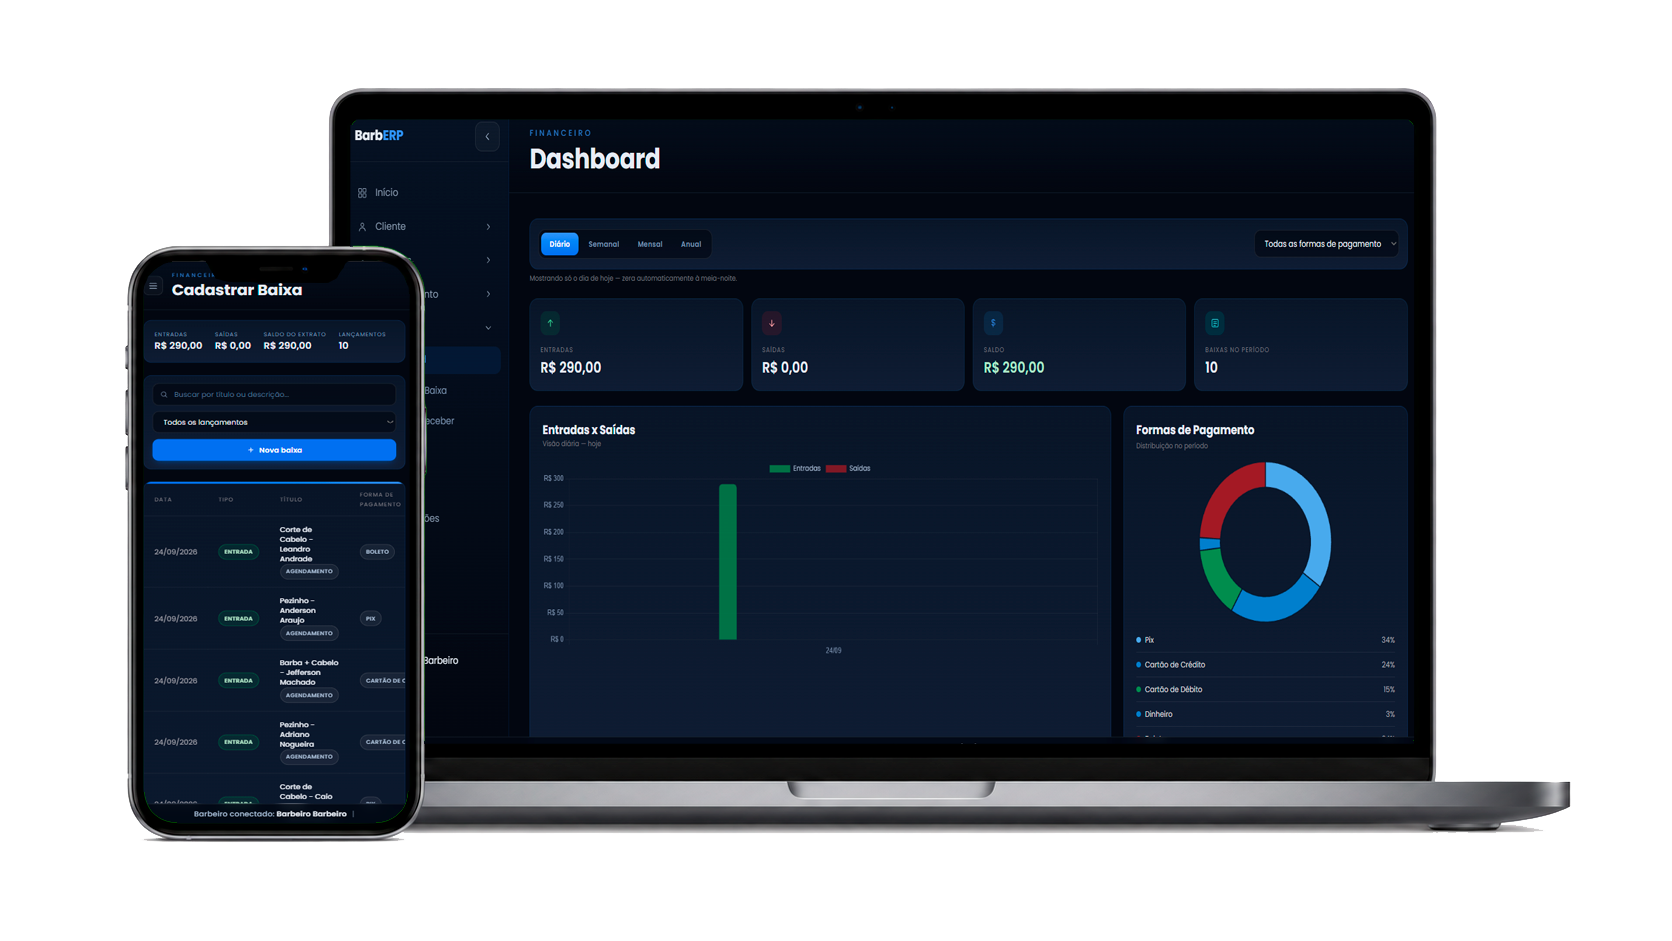
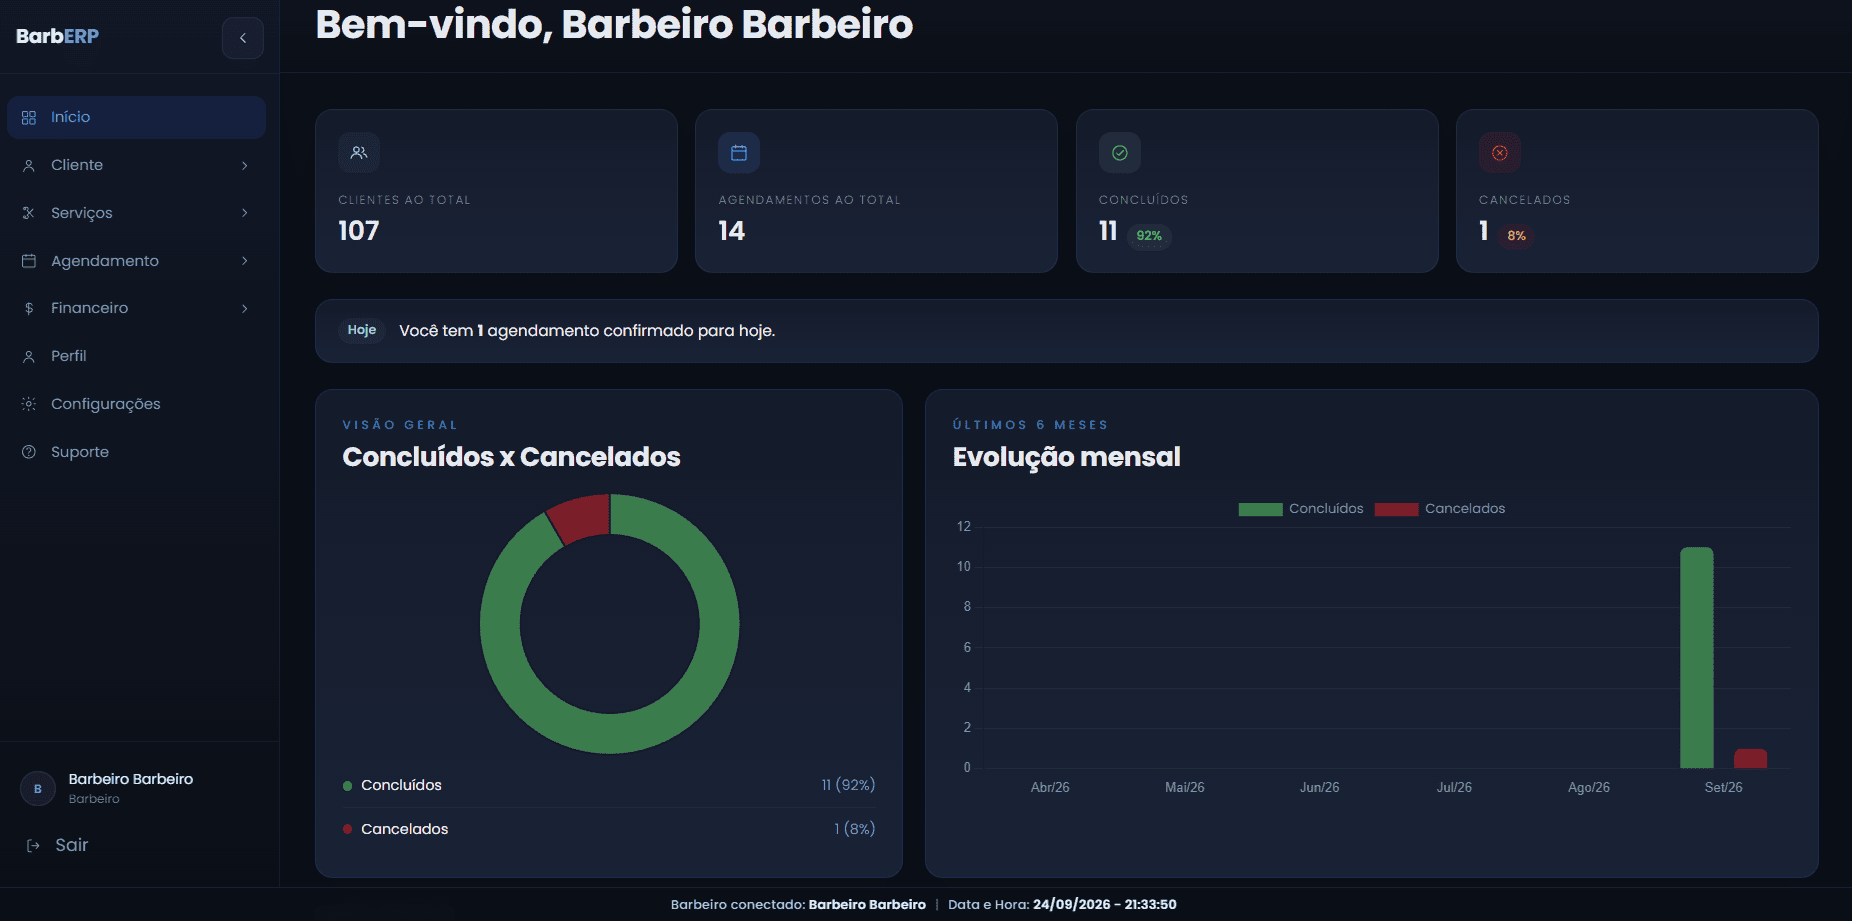
correcao de rotas

diff --git a/README.md b/README.md
@@ -29,12 +29,36 @@ Este projeto usa um banco **separado** do banco principal do BarbERP —
 `leads_app_barber`, no mesmo servidor (`comandai_barbearia-padrao-bd:3306`).
 Ele só guarda os contatos que preenchem o formulário "Teste gratuito".
 
-Rode uma única vez, no banco `leads_app_barber`:
+Antes de rodar `criar_tabela_leads.sql`, o usuário do banco (o mesmo valor
+de `DB_USER`, ex.: `barbearia_user`) precisa ter permissão nesse banco —
+por padrão, um usuário do MySQL só enxerga o(s) banco(s) para o(s) qual(is)
+foi explicitamente liberado. Se o formulário responder com "Não foi
+possível registrar sua solicitação agora" e o log do servidor mostrar
+`Access denied for user '...' to database 'leads_app_barber'`, é exatamente
+isso: falta liberar o acesso. Rode, conectado como um usuário com privilégio
+de administrador (root ou o usuário admin do painel do banco — **não** dá
+para rodar isso logado como o próprio `barbearia_user`, pois é ele quem
+está sem permissão):
+
+```sql
+CREATE DATABASE IF NOT EXISTS leads_app_barber CHARACTER SET utf8mb4 COLLATE utf8mb4_unicode_ci;
+GRANT ALL PRIVILEGES ON leads_app_barber.* TO 'barbearia_user'@'%';
+FLUSH PRIVILEGES;
+```
+
+(troque `'barbearia_user'@'%'` pelo usuário/host reais, se forem diferentes)
+
+Só depois disso, rode uma única vez, no banco `leads_app_barber`:
 
 ```sql
 -- via phpMyAdmin: selecione o banco leads_app_barber -> aba SQL -> cole e
 -- execute o conteúdo de criar_tabela_leads.sql
 ```
+
+`Lead` vem entre crase (`` `Lead` ``) tanto no script quanto no
+`processar_lead.php` — a partir do MySQL 8.0, a palavra `LEAD` virou
+reservada (é o nome de uma função de janela, `LEAD()`), então usá-la como
+nome de tabela sem crase dá erro de sintaxe (`#1064`) ao criar a tabela.
 
 ## 2. Variáveis de ambiente
 
@@ -55,30 +79,35 @@ logs do servidor (`error_log`).
 
 ## 3. Imagens reais do sistema
 
-Enquanto as capturas reais não são adicionadas, o carrossel de telas e o
-mockup do hero mostram uma representação estilizada em CSS/HTML (não são
-capturas falsas — são só um placeholder elegante). Para trocar pelas
-imagens reais, adicione os arquivos em:
+Enquanto uma captura real não existe, o hero, cada tela do carrossel e a
+seção "Financeiro"/"Agendamento Online" mostram uma representação
+estilizada em CSS/HTML — não é uma captura falsa, é só um placeholder
+elegante. `index.php` verifica sozinho, com a função `fotoReal()`, se
+algum dos nomes de arquivo aceitos já foi adicionado e troca o mockup pela
+foto real automaticamente (inclusive na ampliação ao clicar, no
+carrossel) — **não precisa editar nenhum código**, só colocar o arquivo em
+`assets/images/barberp/` com um destes nomes:
 
 ```
-assets/images/barberp/dashboard.png
-assets/images/barberp/agendamentos.png
-assets/images/barberp/financeiro.png
-assets/images/barberp/fiados.png
-assets/images/barberp/agenda-online.png
+assets/images/barberp/dashboard.png        (ou dashboard_principal.png)  → hero (topo) + tela "Início" do carrossel
+assets/images/barberp/agendamentos.png                                  → tela "Agendamentos" do carrossel
+assets/images/barberp/clientes.png                                      → tela "Clientes" do carrossel
+assets/images/barberp/agenda-online01.png                               → tela "Agenda Online" do carrossel
+assets/images/barberp/agenda-online02.png                               → tela "Confirmação" do carrossel
+assets/images/barberp/financeiro.png       (ou dashboard_fin.png)       → seção "Financeiro" (1ª foto)
+assets/images/barberp/fiados.png           (ou receber_fiado.png)       → seção "Financeiro" (2ª foto, ao lado da anterior)
+assets/images/barberp/agenda_link01.png    (ou agenda-link01.png)       → seção "Agendamento online" (foto ao lado do texto)
 ```
 
-e, em `index.php`, na seção "CARROSSEL DE TELAS", troque o bloco
-`<?php if ($t['mockup'] === 'inicio'): ?> ... <?php endif; ?>` de cada slide
-por uma tag simples:
+Cada linha aceita **qualquer um** dos nomes indicados — não precisa
+renomear o arquivo antes de colocá-lo na pasta, o `fotoReal()` procura
+pelos dois nomes possíveis e usa o que encontrar primeiro.
 
-```php
-<img src="/<?= htmlspecialchars($t['imagem']) ?>" alt="<?= htmlspecialchars($t['legenda']) ?>">
-```
-
-(o array `$telas`, no topo do arquivo, já traz o caminho de cada imagem em
-`imagem` e o texto da legenda em `legenda`). O mesmo vale para o mockup do
-hero, no início da seção `<section class="hero" ...>`.
+`dashboard.png`/`dashboard_principal.png` é reaproveitado em dois lugares
+(hero + carrossel). O carrossel da seção "Demonstração" tem 5 telas
+(Início, Agendamentos, Clientes, Agenda Online, Confirmação) — Financeiro
+e Fiados não aparecem nele; essas duas ficam só na seção dedicada
+"Financeiro", lado a lado.
 
 ## 4. Deploy
 
@@ -86,6 +115,56 @@ Qualquer hospedagem PHP 8+ com PDO/MySQL habilitado funciona (o mesmo tipo
 de stack usado no BarbERP principal). Não há dependências externas (sem
 Composer, sem build step) — é só subir os arquivos e configurar as
 variáveis de ambiente acima.
+
+`index.php` já acrescenta sozinho `?v=<data de modificação>` no link do
+`style.css` e nos `<script>` (função `versaoAsset()`), então um ajuste de
+CSS/JS não fica "preso" em cache no navegador de quem já visitou o site —
+cada deploy novo já força a versão mais recente sem precisar de Ctrl+Shift+R.
+Se mesmo assim uma mudança visual não aparecer depois do deploy, o motivo
+mais comum é o deploy não ter realmente subido o arquivo atualizado (por
+exemplo, substituir só o `index.php` sem substituir também
+`assets/css/style.css`) — vale conferir se todos os arquivos da pasta
+`assets/` também foram atualizados no servidor, não só o `index.php`.
+
+### Rotas inválidas / arquivos sensíveis
+
+O projeto inclui `.nixpacks/assets/nginx.template.conf`, que substitui o
+template padrão do Nixpacks (usado automaticamente pelo EasyPanel ao
+detectar PHP). Duas coisas são garantidas por esse arquivo, sem precisar
+configurar nada manualmente no EasyPanel:
+
+- **Qualquer URL que não exista** (ex.: `barberp.daksolucoes.com.br/acess`)
+  cai de volta para o `index.php` em vez de gerar um erro cru do nginx
+  (404 sem estilo nenhum). Isso também evita que alguém descubra a
+  estrutura de pastas do projeto tentando URLs aleatórias.
+- **Acesso HTTP direto fica bloqueado** para `config.php` (credenciais do
+  banco), qualquer `.sql` (`criar_tabela_leads.sql`), `.md` (este próprio
+  README) e `.env`. Esses arquivos continuam funcionando normalmente
+  quando usados internamente pelo PHP (`require`/`include`) — o bloqueio
+  é só contra alguém abrir o link diretamente no navegador.
+
+Se o deploy for feito em uma hospedagem que **não** usa Nixpacks (ex.:
+Apache), esse arquivo é ignorado e o equivalente precisa ser feito via
+`.htaccess`:
+
+```apache
+RewriteEngine On
+RewriteCond %{REQUEST_FILENAME} !-f
+RewriteCond %{REQUEST_FILENAME} !-d
+RewriteRule ^ index.php [QSA,L]
+
+<FilesMatch "\.(sql|md|env)$">
+    Require all denied
+</FilesMatch>
+<Files "config.php">
+    Require all denied
+</Files>
+```
+
+Depois do deploy, para conferir que pegou: abrir
+`barberp.daksolucoes.com.br/qualquercoisa` deve mostrar a landing page
+normal (não um erro), e `barberp.daksolucoes.com.br/config.php` ou
+`/criar_tabela_leads.sql` deve dar "não encontrado".
 
 ## 5. O que já foi testado
 
